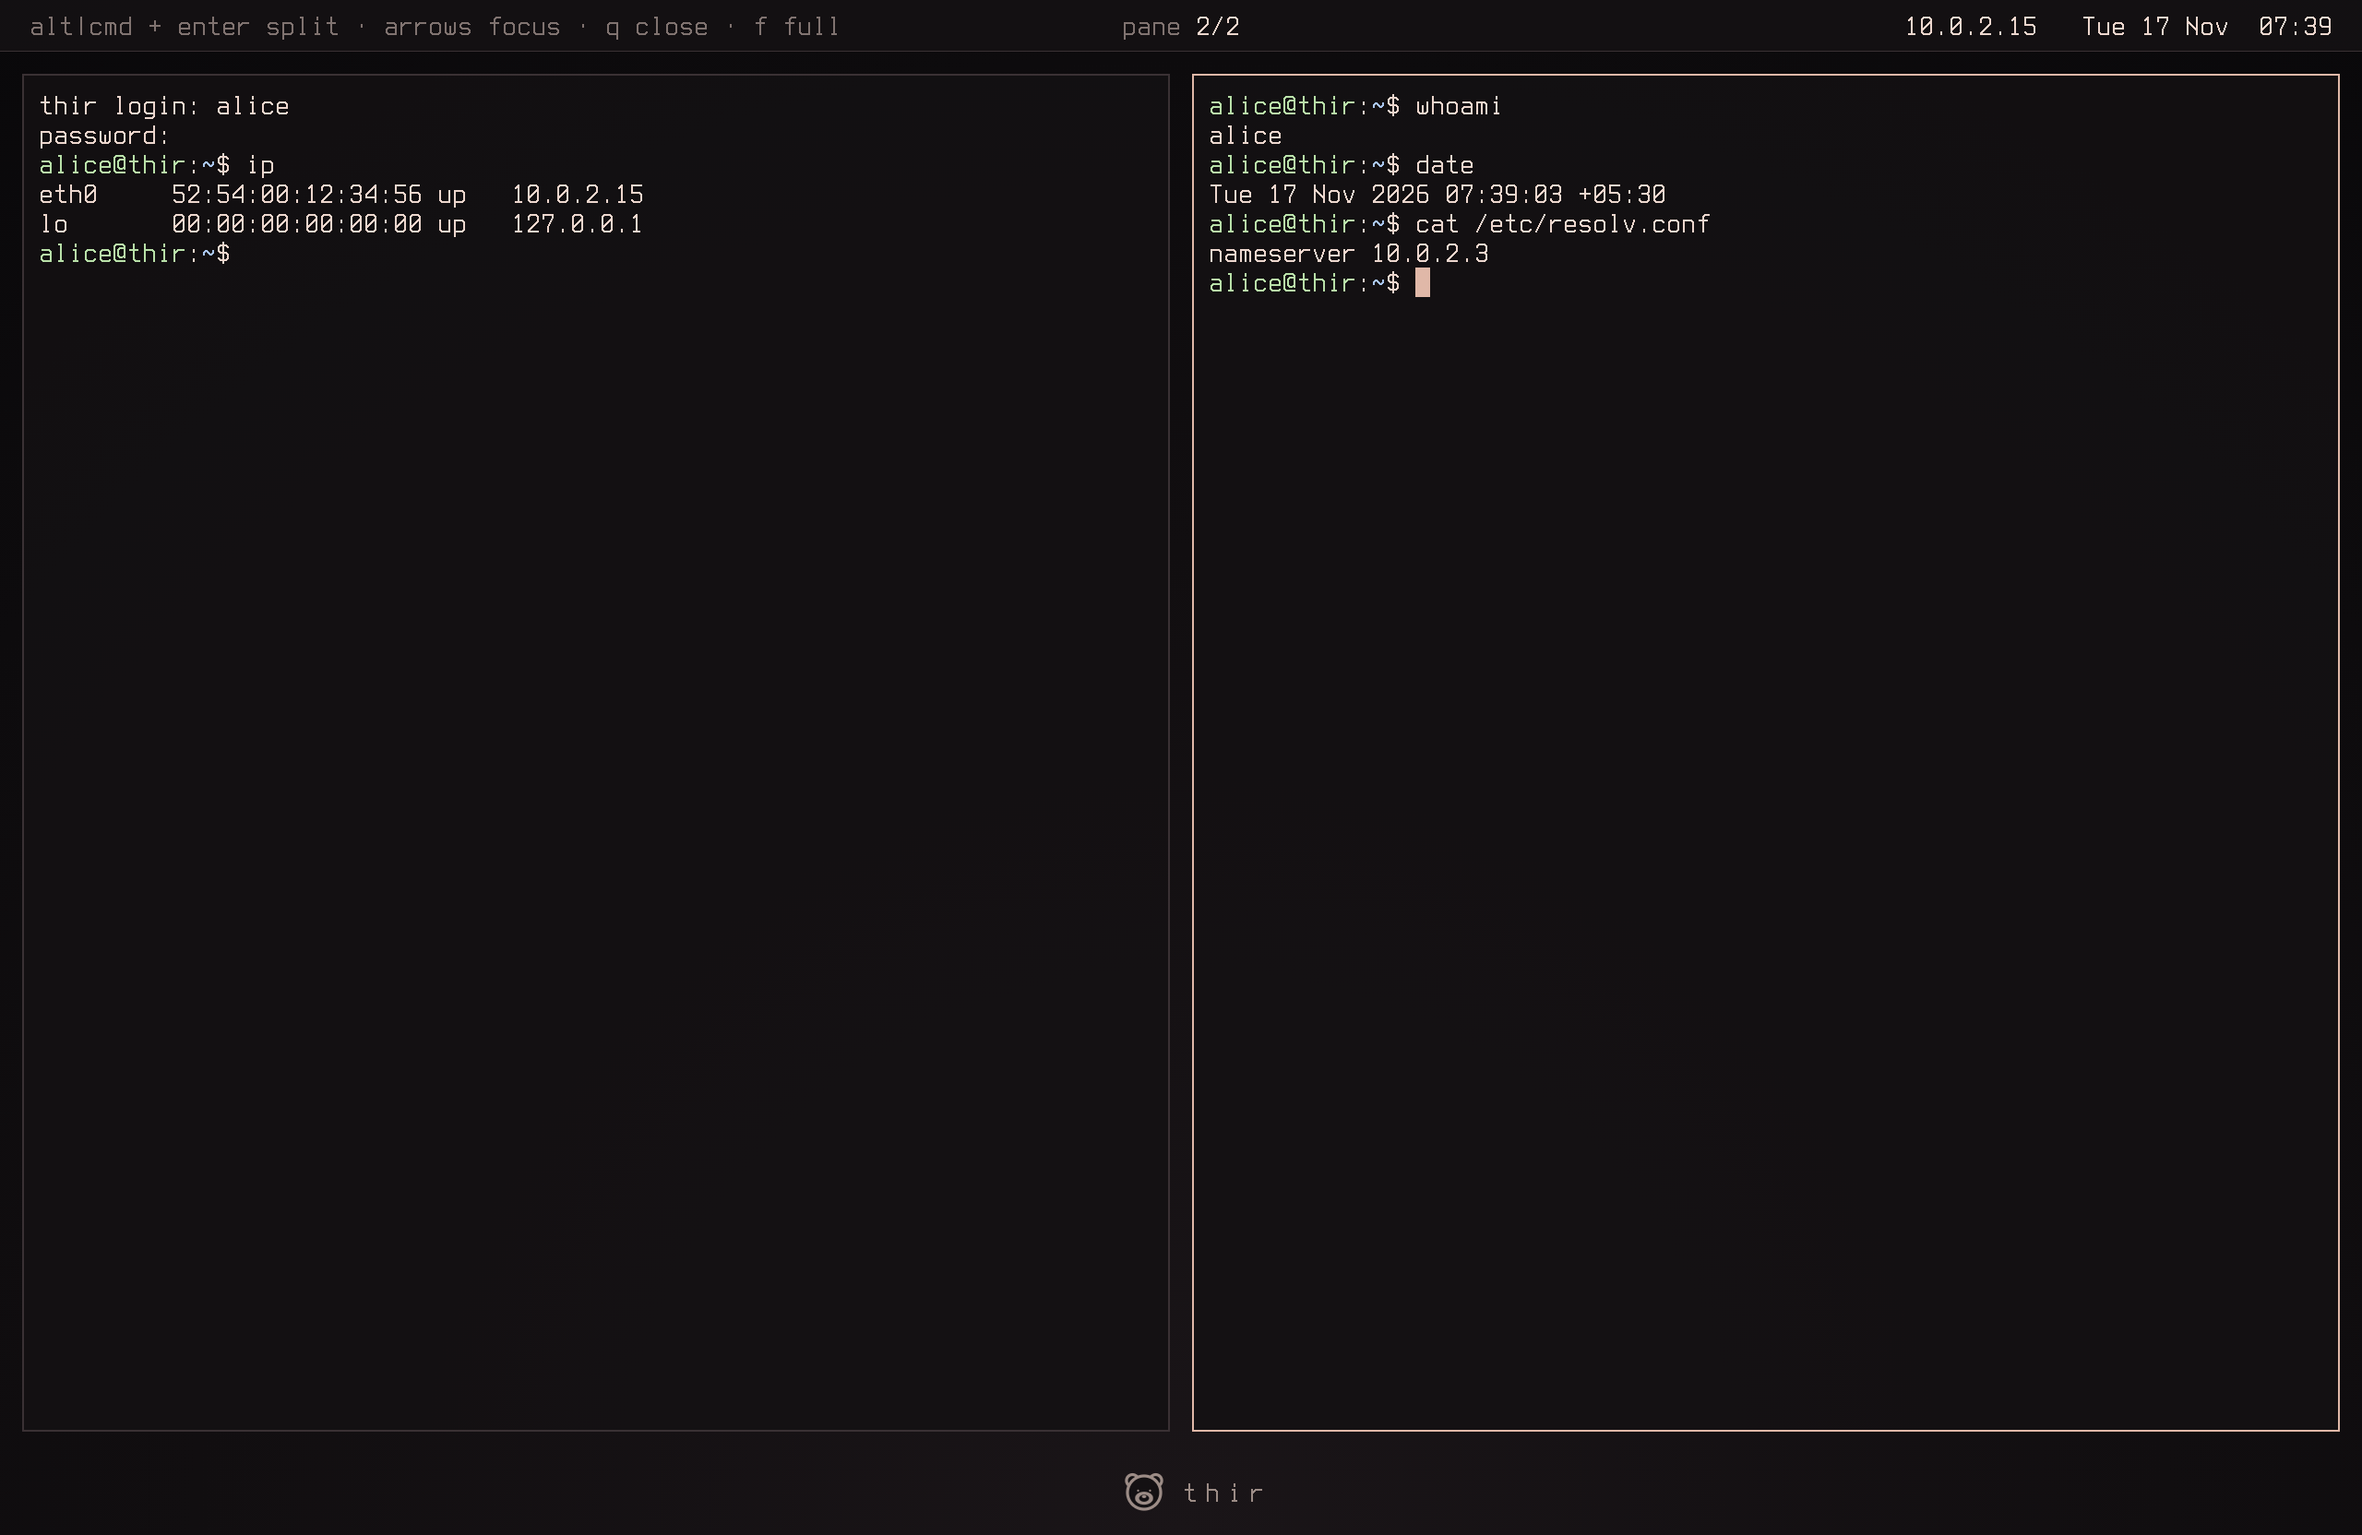
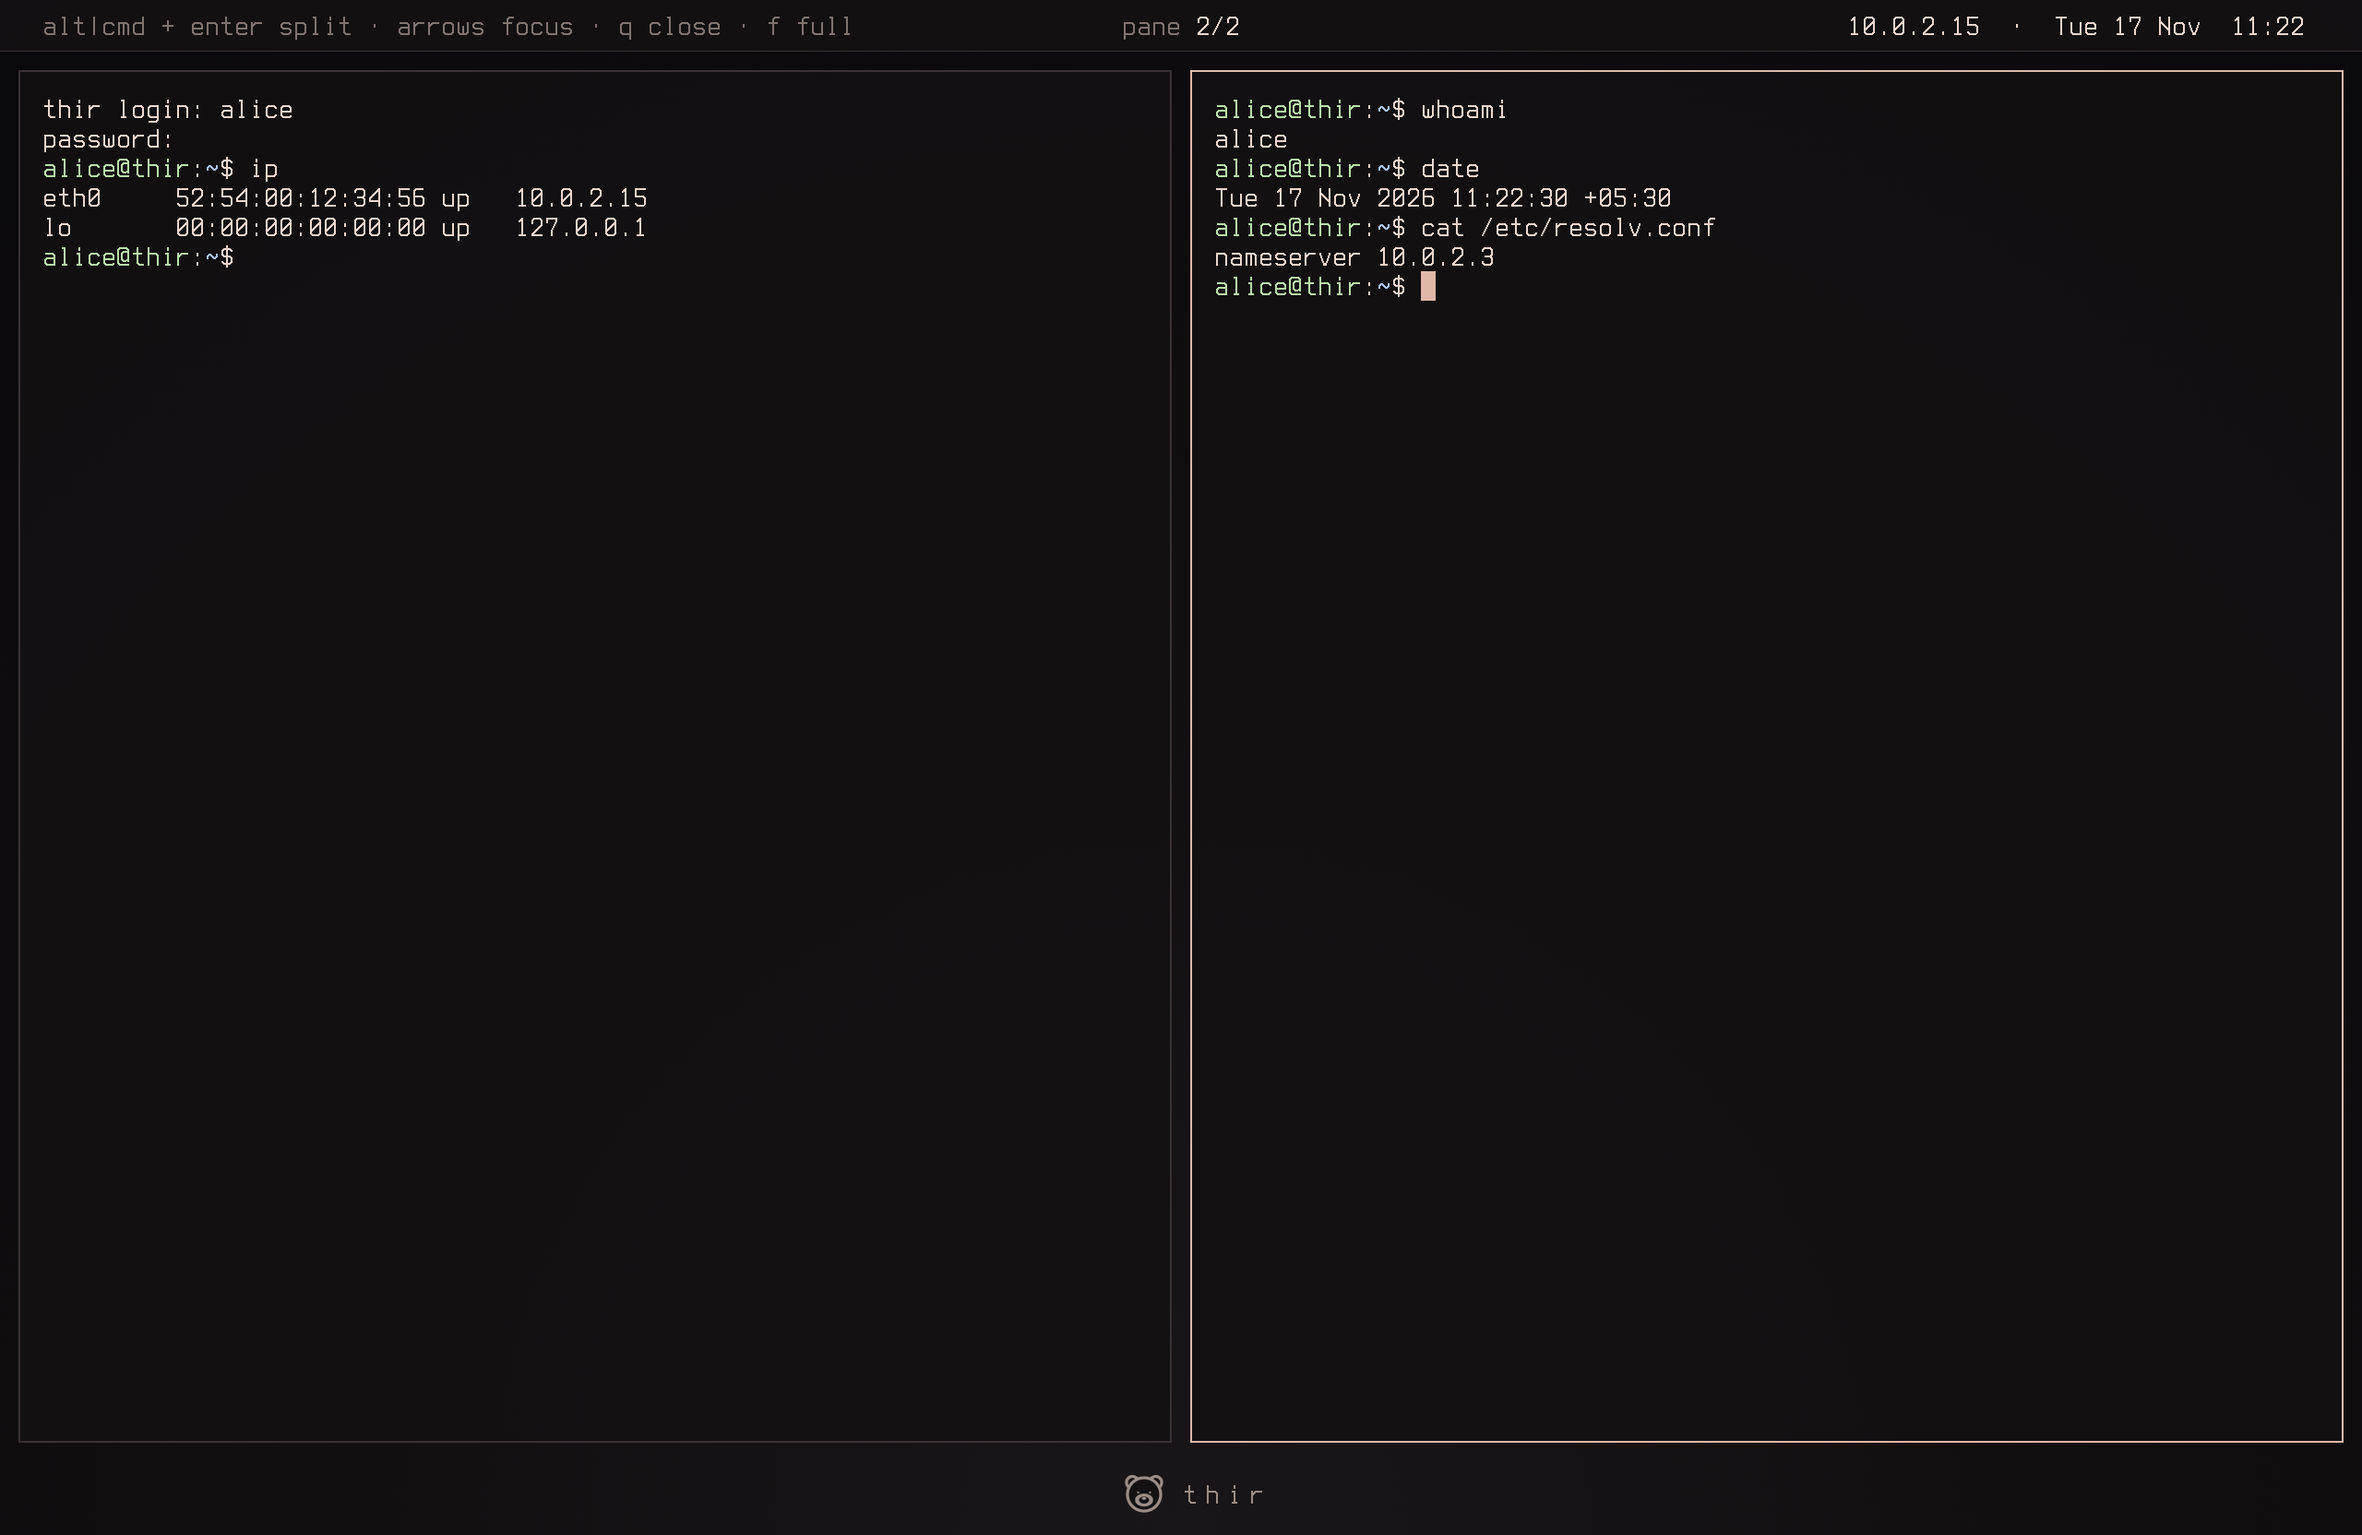
Bigger VirtualBox screen, local time by default, spacing pass, capital letters in user names
- aarch64: vmwgfx + video=Virtual-1:2560x1600 (VirtualBox ARM firmware is stuck at 800x600)
- build.sh bakes the Mac's UTC offset in as the default time zone; setup offers it on Enter
- den: gap 10, pad 12, footer 40 with the mark centred; bar text aligned with pane text
- user names may contain capital letters

diff --git a/src/bin/den.rs b/src/bin/den.rs
@@ -141,13 +141,15 @@ impl Den {
         let mid = if self.uid.is_none() { "pane login".to_string() } else { format!("pane {n}/{}", self.panes.len()) };
         let mw = mid.len() as i32 * fw;
         // as many help items as fit left of the centre label (narrow screens, e.g. 800x600 firmware modes)
-        let room = (((w as i32 - mw) / 2 - m.pad * 2 - 2 * fw) / fw).max(0) as usize;
+        let inset = m.gap + m.border + m.pad;   // the bar text lines up with the text inside the panes
+        let room = (((w as i32 - mw) / 2 - inset - 2 * fw) / fw).max(0) as usize;
         let help = fit_items(HELP, " \u{b7} ", room);
-        self.text(m.pad * 2, &help, DIM);
+        self.text(inset, &help, DIM);
         self.text((w as i32 - mw) / 2, "pane", DIM); self.text((w as i32 - mw) / 2 + 5 * fw, &mid[5..], FG);
-        let right = format!("{}   {}", ip_string(), clock::bar_line(clock::now(), self.tz_path.as_deref().zip(self.uid).and_then(|(p, u)| clock::read_tz(p, u))));
+        let off = self.tz_path.as_deref().zip(self.uid).and_then(|(p, u)| clock::read_tz(p, u)).or_else(clock::default_offset);
+        let right = format!("{}  \u{b7}  {}", ip_string(), clock::bar_line(clock::now(), off));
         let rw = right.len() as i32 * fw;
-        self.text(w as i32 - rw - m.pad * 2, &right, FG);
+        self.text(w as i32 - rw - inset, &right, FG);
         self.dirty_y = (0, self.dirty_y.1.max(m.bar as usize));
     }
 
@@ -238,7 +240,7 @@ fn main() {
     let (w, h) = (fb.w, fb.h);
     let mut wall = wall::gradient(w, h, &WALL);
     let (fy, r) = (h as i32 - m.foot, 9.0 * sc as f32);
-    let cy = fy + 21 * sc;   // footer strip centre line: bear mark and "thir", never covered by panes
+    let cy = fy + 18 * sc;   // footer strip centre line: bear mark and "thir", never covered by panes
     let cx = w as f32 / 2.0 - 2.5 * font.w as f32;
     wall::bear(&mut wall, w, cx, cy as f32, r, MARK, PANEL, 1.6 * sc as f32);
     let (mut x, y) = ((cx + r + 1.5 * font.w as f32) as i32, cy - font.h as i32 / 2);

diff --git a/src/user.rs b/src/user.rs
@@ -22,8 +22,8 @@ pub struct User { pub name: String, pub uid: u32, pub params: Params, pub salt: 
 /// ^[a-z_][a-z0-9_-]{0,31}$ and not "root"
 pub fn valid_name(s: &str) -> bool {
     let b = s.as_bytes();
-    !b.is_empty() && b.len() <= 32 && s != "root" && (b[0].is_ascii_lowercase() || b[0] == b'_')
-        && b[1..].iter().all(|c| c.is_ascii_lowercase() || c.is_ascii_digit() || *c == b'_' || *c == b'-')
+    !b.is_empty() && b.len() <= 32 && !s.eq_ignore_ascii_case("root") && (b[0].is_ascii_alphabetic() || b[0] == b'_')
+        && b[1..].iter().all(|c| c.is_ascii_alphanumeric() || *c == b'_' || *c == b'-')
 }
 
 pub fn hash(password: &str, salt: &[u8; 16], p: &Params) -> Result<[u8; 32], String> {
@@ -170,8 +170,8 @@ mod tests {
         assert!(parse(&format!("{l}\n{l}")).is_err());
     }
     #[test] fn names() {
-        for ok in ["a", "_x", "ann-1_b", &"a".repeat(32)] { assert!(valid_name(ok), "{ok}"); }
-        for bad in ["", "root", "Ann", "1a", "-a", "a b", "a:b", &"a".repeat(33)] { assert!(!valid_name(bad), "{bad}"); }
+        for ok in ["a", "_x", "ann-1_b", "Ann", "Adhishtanaka", &"a".repeat(32)] { assert!(valid_name(ok), "{ok}"); }
+        for bad in ["", "root", "Root", "1a", "-a", "a b", "a:b", &"a".repeat(33)] { assert!(!valid_name(bad), "{bad}"); }
     }
     #[test] fn password_length() {
         assert!(new("ann", 1000, "abcd", [0; 16], &FAST).is_err());   // 4 bytes, below MIN_PASSWORD

diff --git a/src/bin/login.rs b/src/bin/login.rs
@@ -34,14 +34,18 @@ fn setup() -> Option<(User, Option<i32>)> {
     println!("thir: first boot: create the first user");
     loop {
         let name = line("username: ");
-        if !user::valid_name(&name) { println!("invalid name (a-z, 0-9, _ -, max 32)"); continue; }
+        if !user::valid_name(&name) { println!("invalid name: letters, digits, _ or -, max 32, starting with a letter or _"); continue; }
         let pw = secret("password: ");
         if pw != secret("repeat password: ") { println!("passwords do not match"); continue; }
         if pw.len() < user::MIN_PASSWORD { println!("password too short (min {})", user::MIN_PASSWORD); continue; }
         if !load_or_die().is_empty() { println!("a user was already created on another console"); return None; }
         let tz = loop {
-            let o = line("utc offset (e.g. +05:30, Enter for UTC): ");
-            if o.is_empty() { break None }
+            let def = clock::default_offset();
+            let o = match def {
+                Some(d) => line(&format!("utc offset [{}]: ", clock::format_offset(d))),
+                None => line("utc offset (e.g. +05:30, Enter for UTC): "),
+            };
+            if o.is_empty() { break def }
             match clock::parse_offset(&o) { Some(m) => break Some(m), None => println!("use +HH:MM or -HH:MM") }
         };
         match user::create(&name, user::FIRST_UID, &pw) {

diff --git a/src/gui/theme.rs b/src/gui/theme.rs
@@ -9,7 +9,7 @@ pub const ACCENT: u32 = 0xe0b8a8;     // focused border, cursor, bar highlights
 pub const BORDER_DIM: u32 = 0x3a3134; // unfocused border
 #[derive(Clone, Copy)]
 pub struct Metrics { pub bar: i32, pub gap: i32, pub border: i32, pub pad: i32, pub foot: i32 }
-impl Metrics { pub const fn at(s: i32) -> Metrics { Metrics { bar: 28 * s, gap: 12 * s, border: s, pad: 8 * s, foot: 44 * s } } }
+impl Metrics { pub const fn at(s: i32) -> Metrics { Metrics { bar: 28 * s, gap: 10 * s, border: s, pad: 12 * s, foot: 40 * s } } }
 pub const MARK: u32 = 0x9c8c86;   // rgba(236,214,205,0.62) over the wallpaper, as in wallpaper.html variant D
 pub const WALL: [(f32, u32); 3] = [(0.0, 0x1a1518), (0.5, 0x110e10), (1.0, 0x09080a)];   // radial stops, centre bottom-middle
 pub const HELP: &str = "alt|cmd + enter split \u{b7} arrows focus \u{b7} q close \u{b7} f full";

diff --git a/src/clock.rs b/src/clock.rs
@@ -62,7 +62,12 @@ pub fn read_tz(path: &str, owner: u32) -> Option<i32> {
     parse_offset(std::str::from_utf8(&buf[..n]).ok()?.trim())
 }
 
-pub fn home_tz() -> Option<i32> { read_tz(&format!("{}/.tz", std::env::var("HOME").ok()?), unsafe { libc::getuid() }) }
+/// The build host's offset (build.sh passes THIR_TZ), used until a user sets ~/.tz.
+pub fn default_offset() -> Option<i32> { option_env!("THIR_TZ").and_then(parse_offset) }
+
+pub fn home_tz() -> Option<i32> {
+    std::env::var("HOME").ok().and_then(|h| read_tz(&format!("{h}/.tz"), unsafe { libc::getuid() })).or_else(default_offset)
+}
 
 pub fn now() -> i64 { unsafe { libc::time(std::ptr::null_mut()) as i64 } }
 

diff --git a/README.md b/README.md
@@ -209,7 +209,11 @@ VBoxManage startvm thir
 ```
 
 The default graphics controller (VBoxVGA) does not start on ARM: use `vmsvga`. The ARM firmware ignores
-`EfiGraphicsResolution`/`EfiGopMode`, so den runs at 800x600; a larger size needs the `vmwgfx` DRM driver.
+`EfiGraphicsResolution`/`EfiGopMode` (800x600), so the aarch64 kernel has the `vmwgfx` driver and its built-in
+cmdline sets `video=Virtual-1:2560x1600`. For a sharp 1280x800-point window on a Retina Mac:
+`VBoxManage setextradata thir GUI/HiDPI/UnscaledOutput true`.
+
+The default time zone is the build Mac's UTC offset (`build.sh` passes `THIR_TZ`; override with `THIR_TZ=+05:30 ./build.sh`).
 To update the VM to a new build, detach and delete `thir.vdi`, convert again, and attach it (this erases the
 users and files in the VM).
 
